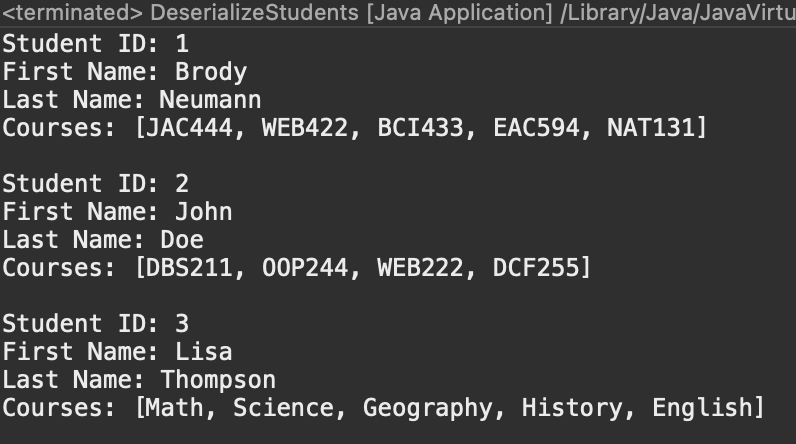
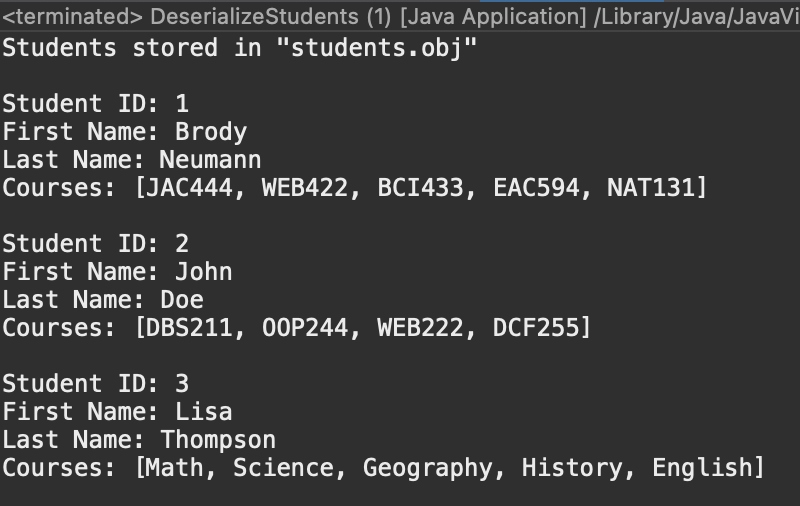
Updated workshop 5

diff --git a/workshop5/src/serialization/DeserializeStudents.java b/workshop5/src/serialization/DeserializeStudents.java
@@ -13,13 +13,14 @@ public class DeserializeStudents {
 		ArrayList<Student> students = new ArrayList<Student>();
         
 		/** Deserialize the "students" file */
-		FileInputStream fis = new FileInputStream("students");
+		FileInputStream fis = new FileInputStream("students.obj");
         ObjectInputStream ois = new ObjectInputStream(fis);
         students = (ArrayList) ois.readObject();
         ois.close();
         fis.close();
          
         /** Print all deserialized students */
+        System.out.println("Students stored in \"students.obj\"\n");
         for (Student student : students) {
             System.out.println("Student ID: " + student.getStudentId());
             System.out.println("First Name: " + student.getFirstName());

diff --git a/workshop5/src/serialization/SerializeStudents.java b/workshop5/src/serialization/SerializeStudents.java
@@ -91,12 +91,12 @@ public class SerializeStudents {
 		 * Serialize and write the `students` ArrayList 
 		 * to a file called "students"
 		 * */
-		FileOutputStream fos = new FileOutputStream("students");
+		FileOutputStream fos = new FileOutputStream("students.obj");
 		ObjectOutputStream oos = new ObjectOutputStream(fos);
 		oos.writeObject(students);
 		oos.close();
 		fos.close();
 		
-		System.out.println("Student objects saved into file \"students\"");
+		System.out.println("Student objects saved into file \"students.obj\"");
 	}
 }
